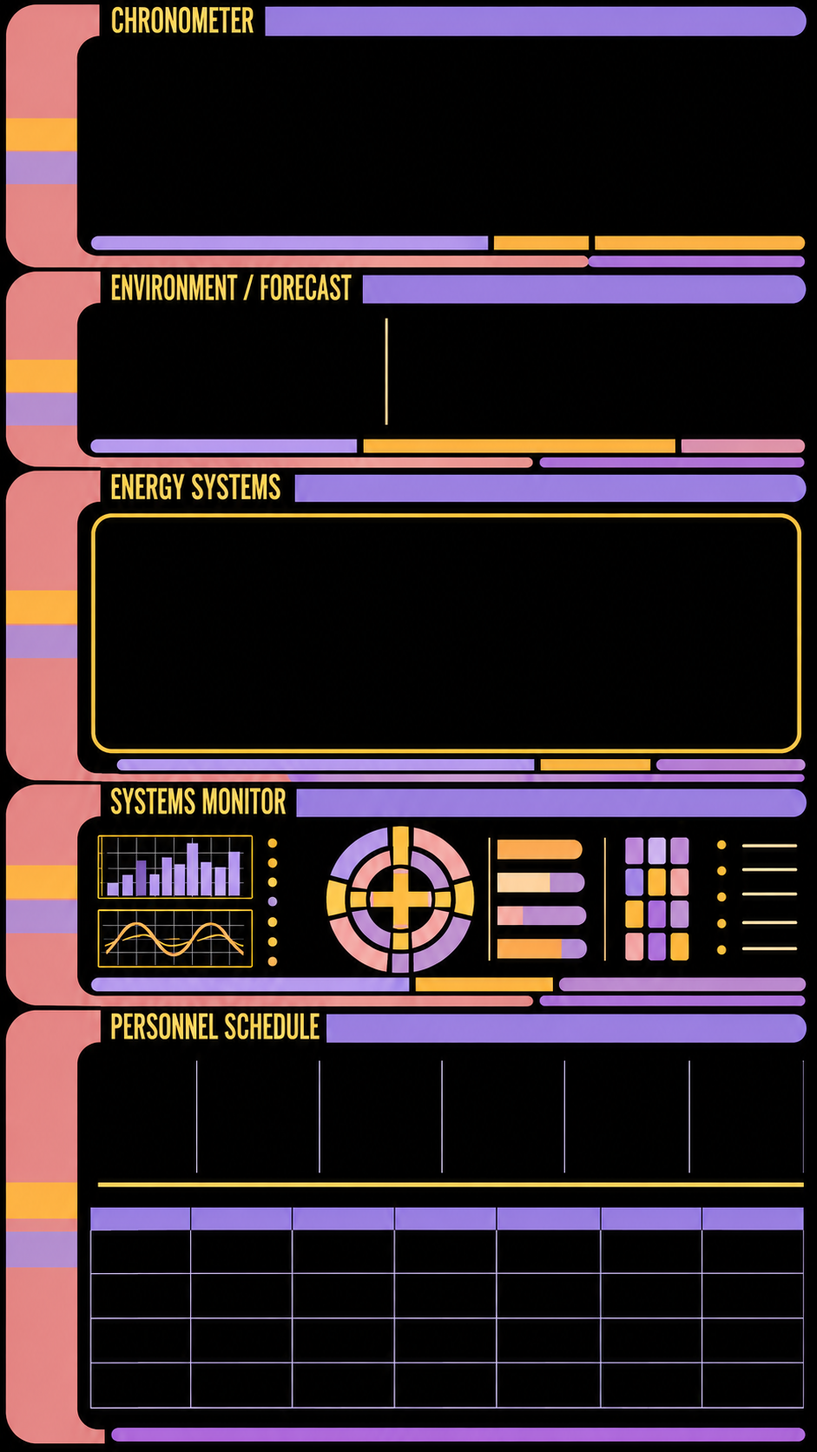
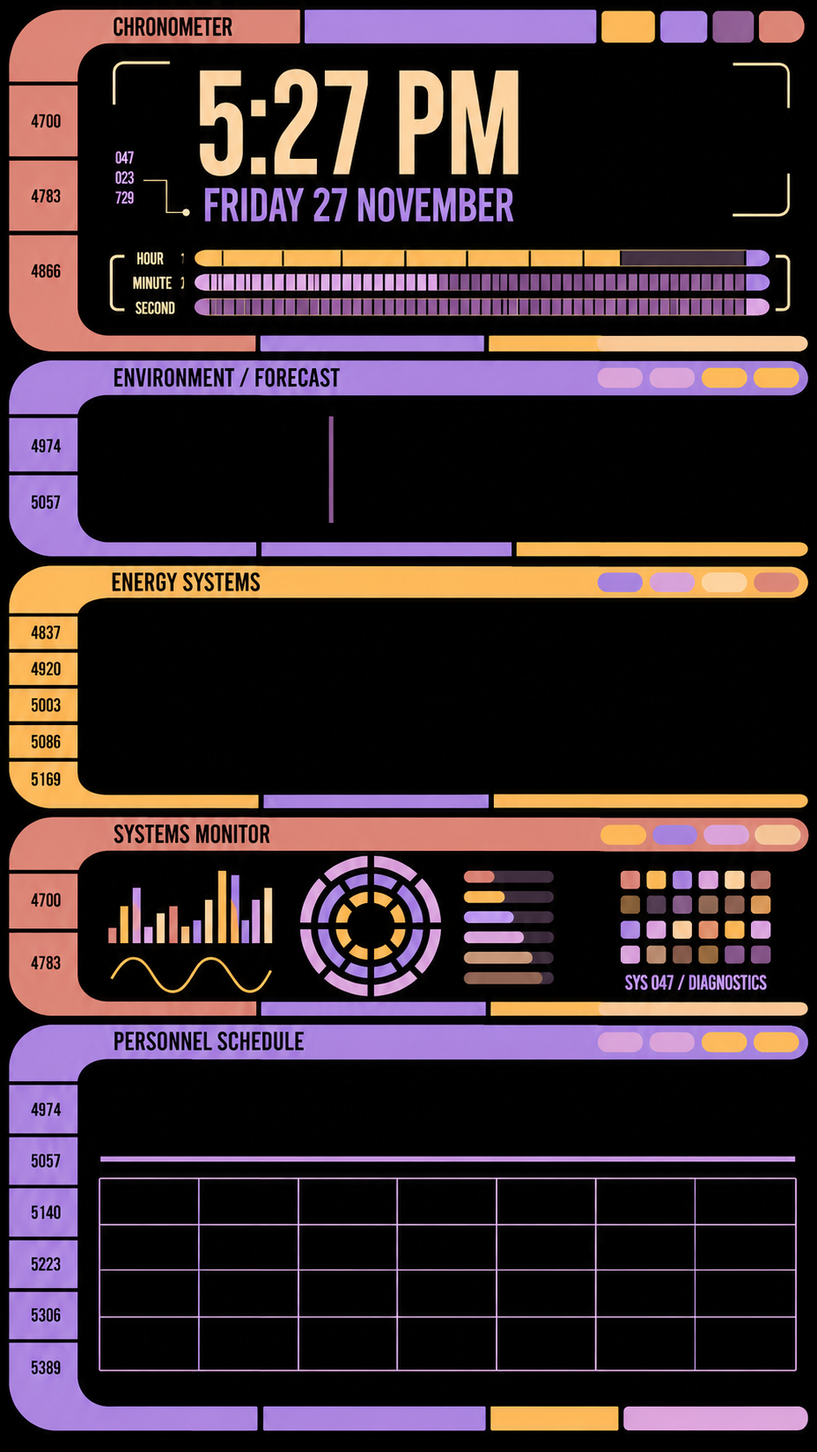
Add files via upload

diff --git a/lcars.html b/lcars.html
@@ -1,1 +1,358 @@
-<!doctype html><html><head><meta charset="utf-8"><meta name="viewport" content="width=device-width, initial-scale=1"><link rel="stylesheet" href="https://fonts.googleapis.com/css2?family=League+Gothic&display=swap"><style>html,body{margin:0;background:#000;width:100%;height:100%;overflow:hidden}svg{width:100%;height:100%;display:block}text{font-family:'League Gothic','Arial Narrow',sans-serif;font-weight:normal} .spin{transform-box:fill-box;transform-origin:center;animation:spin 24s linear infinite}.blink{animation:blink 3s ease-in-out infinite alternate}.bar{transform-box:fill-box;transform-origin:bottom;animation:bar 2.8s ease-in-out infinite alternate}@keyframes spin{to{transform:rotate(360deg)}}@keyframes blink{0%,30%{opacity:.35}70%,100%{opacity:1}}@keyframes bar{from{transform:scaleY(.35)}to{transform:scaleY(1)}}@media(prefers-reduced-motion:reduce){*{animation:none!important}}</style></head><body><svg id="s" viewBox="0 0 1080 1920" preserveAspectRatio="none" xmlns="http://www.w3.org/2000/svg"><rect width="1080" height="1920" fill="black"/><g id="frame"/><g id="monitor"/></svg><script>const ns='http://www.w3.org/2000/svg', f=document.getElementById('frame'),m=document.getElementById('monitor'),colors=['#cc7766','#ffaa55','#9977cc','#cc99cc','#ffcc99'];function el(p,t,a,txt){let n=document.createElementNS(ns,t);for(let k in a)n.setAttribute(k,a[k]);if(txt)n.textContent=txt;p.append(n);return n}function rect(p,x,y,w,h,c,r=0){return el(p,'rect',{x,y,width:w,height:h,fill:c,rx:r})}function text(p,x,y,v,c='#000',size=18){return el(p,'text',{x,y,fill:c,'font-size':size},v)}function section(y,end,label,i){let c=colors[i%colors.length];el(f,'path',{d:`M20 ${y+56} Q20 ${y} 78 ${y} H158 V${y+34} Q120 ${y+34} 120 ${y+72} V${end-45} Q120 ${end-14} 158 ${end-14} H320 V${end} H78 Q20 ${end} 20 ${end-55}Z`,fill:c});let labelW=label.length*13+24;text(f,166,y+27,label,'#ffcc99',29);let start=166+labelW;rect(f,start,y,810-start,34,colors[2],0);for(let j=0;j<4;j++){let r=rect(f,820+j*59,y,49,34,colors[(i+j+1)%5],j===3?15:0);r.setAttribute('class','blink');r.style.animationDelay=`-${j*.7+i}s`}let yy=y+64,j=0;while(yy+38<end-55){let h=Math.min([42,60,36,78,48][j%5],end-55-yy);if(h<20)break;rect(f,20,yy,100,h,colors[(i+j+1)%5]);text(f,108,yy+h-8,String(4700+i*137+j*83),'#000',23).setAttribute('text-anchor','end');yy+=h+5;j++}rect(f,326,end-14,365,14,colors[2]);rect(f,697,end-14,155,14,colors[1]);rect(f,858,end-14,202,14,colors[3],7)}section(12,350,'CHRONOMETER',0);section(358,615,'ENVIRONMENT / FORECAST',2);section(623,1135,'ENERGY SYSTEMS',1);section(1143,1388,'SYSTEMS MONITOR',0);section(1396,1908,'PERSONNEL SCHEDULE',2);rect(f,155,1575,905,5,'#9977cc');for(let i=0;i<15;i++){let h=25+(i*37%95);let b=rect(m,165+i*13,1300-h,9,h,colors[i%5]);b.setAttribute('class','bar');b.style.animationDelay=`-${i*.37}s`}el(m,'path',{d:'M165 1345 Q190 1300 215 1345 T265 1345 T315 1345 T365 1345',stroke:colors[1],'stroke-width':3,fill:'none'});let g=el(m,'g',{});g.setAttribute('class','spin');for(let i=0;i<3;i++)el(g,'circle',{cx:490,cy:1270,r:35+i*22,fill:'none',stroke:colors[i+1],'stroke-width':13,'stroke-dasharray':`${20+i*12} 9`});for(let i=0;i<6;i++){rect(m,605,1205+i*24,100,13,'#302337',5);let b=rect(m,605,1205+i*24,30+i*11,13,colors[i%5],5);b.setAttribute('class','blink');b.style.animationDelay=`-${i*.51}s`;text(m,720,1217+i*24,String(182+i*97),colors[4],14)}for(let i=0;i<24;i++){let b=rect(m,800+i%6*30,1205+Math.floor(i/6)*30,22,20,colors[i%5],4);b.setAttribute('class','blink');b.style.animationDelay=`-${i*.43}s`}text(m,800,1355,'SYS 047 / DIAGNOSTICS',colors[3],22);for(let i=0;i<5;i++){el(m,'path',{d:`M160 ${1210+i*20} H365`,stroke:'#382d3b','stroke-width':1});}for(let i=0;i<6;i++){let n=text(m,378,1218+i*23,String(8214+i*137),colors[i%5],18);n.setAttribute('class','blink');n.style.animationDelay=`-${i*.83}s`}for(let i=0;i<4;i++){let n=rect(m,605+i*44,1360,39,10,colors[i],3);n.setAttribute('class','blink');n.style.animationDelay=`-${i*.4}s`}</script></body></html>
+<!doctype html>
+<html>
+<head>
+  <meta charset="utf-8">
+  <meta name="viewport" content="width=device-width, initial-scale=1">
+  <link rel="preconnect" href="https://fonts.googleapis.com">
+  <link rel="preconnect" href="https://fonts.gstatic.com" crossorigin>
+  <link href="https://fonts.googleapis.com/css2?family=League+Gothic&display=swap" rel="stylesheet">
+  <style>
+    html,body{margin:0;background:#000;width:100%;height:100%;overflow:hidden}
+    svg{width:100%;height:100%;display:block}
+    text{font-family:'League Gothic','Arial Narrow',sans-serif;font-weight:400;letter-spacing:.3px}
+    .softblink{animation:softblink 4.8s ease-in-out infinite alternate}
+    .softblink2{animation:softblink 6.2s ease-in-out infinite alternate}
+    .diagBar{transform-box:fill-box;transform-origin:left center;animation:barpulse 5.5s ease-in-out infinite alternate}
+    .monitorBar{transform-box:fill-box;transform-origin:bottom center;animation:barY 2.8s ease-in-out infinite alternate}
+    .spin{transform-box:fill-box;transform-origin:center center;animation:spin 26s linear infinite}
+    .pulseNode{animation:pulseNode 3s ease-in-out infinite}
+    .scanSweep{animation:sweep 7s ease-in-out infinite}
+    .tilePulse{animation:tilePulse 5s ease-in-out infinite}
+    .sidePulse{animation:sidePulse 7s ease-in-out infinite}
+    @keyframes softblink{0%,35%{opacity:.45}100%{opacity:1}}
+    @keyframes barpulse{0%{opacity:.45}100%{opacity:1}}
+    @keyframes barY{0%{transform:scaleY(.35)}100%{transform:scaleY(1)}}
+    @keyframes spin{to{transform:rotate(360deg)}}
+    @keyframes pulseNode{0%,100%{opacity:.6;r:6}50%{opacity:1;r:8}}
+    @keyframes sweep{0%,20%{opacity:0;transform:translateX(-18px)}25%,75%{opacity:.75}100%{opacity:0;transform:translateX(18px)}}
+    @keyframes tilePulse{0%,100%{opacity:.75}50%{opacity:1}}
+    @keyframes sidePulse{0%,85%,100%{filter:none;opacity:1}90%{filter:brightness(1.25);opacity:1}}
+    @media (prefers-reduced-motion: reduce){*{animation:none!important}}
+  </style>
+</head>
+<body>
+<svg viewBox="0 0 1080 1920" xmlns="http://www.w3.org/2000/svg" preserveAspectRatio="none">
+  <defs>
+    <clipPath id="chronoClip"><rect x="120" y="45" width="940" height="305" rx="42"/></clipPath>
+    <clipPath id="globeClip"><circle cx="894" cy="160" r="66"/></clipPath>
+  </defs>
+  <rect width="1080" height="1920" fill="#000"/>
+
+  <!-- outer section shells -->
+  <g id="frame">
+    <!-- Section helper path reused manually -->
+    <path d="M20 68 Q20 12 78 12 H158 V46 Q120 46 120 84 V305 Q120 336 158 336 H320 V350 H78 Q20 350 20 293 Z" fill="#c98776"/>
+    <path d="M20 414 Q20 358 78 358 H158 V392 Q120 392 120 430 V571 Q120 602 158 602 H320 V615 H78 Q20 615 20 558 Z" fill="#a184d6"/>
+    <path d="M20 679 Q20 623 78 623 H158 V657 Q120 657 120 695 V1091 Q120 1122 158 1122 H320 V1135 H78 Q20 1135 20 1078 Z" fill="#efb25a"/>
+    <path d="M20 1199 Q20 1143 78 1143 H158 V1177 Q120 1177 120 1215 V1344 Q120 1375 158 1375 H320 V1388 H78 Q20 1388 20 1331 Z" fill="#d18b79"/>
+    <path d="M20 1452 Q20 1396 78 1396 H158 V1430 Q120 1430 120 1468 V1864 Q120 1895 158 1895 H320 V1908 H78 Q20 1908 20 1851 Z" fill="#ab8ce2"/>
+
+    <!-- headers -->
+    <text x="166" y="29" fill="#000" font-size="33">CHRONOMETER</text>
+    <text x="166" y="392" fill="#000" font-size="33">ENVIRONMENT / FORECAST</text>
+    <text x="166" y="657" fill="#000" font-size="33">ENERGY SYSTEMS</text>
+    <text x="166" y="1177" fill="#000" font-size="33">SYSTEMS MONITOR</text>
+    <text x="166" y="1430" fill="#000" font-size="33">PERSONNEL SCHEDULE</text>
+
+    <!-- top header bars -->
+    <rect x="408" y="12" width="390" height="34" fill="#a184d6"/>
+    <rect x="808" y="12" width="66" height="34" fill="#efb25a" rx="8" class="softblink"/>
+    <rect x="882" y="12" width="58" height="34" fill="#ab8ce2" rx="8" class="softblink2"/>
+    <rect x="948" y="12" width="58" height="34" fill="#bb8fbd" rx="8" class="softblink" style="animation-delay:-1.2s"/>
+    <rect x="1014" y="12" width="52" height="34" fill="#dba588" rx="16" class="softblink2" style="animation-delay:-2.4s"/>
+
+    <rect x="455" y="358" width="440" height="34" fill="#a184d6"/>
+    <rect x="895" y="358" width="58" height="34" fill="#c89fca" rx="8" class="softblink"/>
+    <rect x="961" y="358" width="58" height="34" fill="#d2a5cf" rx="8" class="softblink2"/>
+    <rect x="1027" y="358" width="46" height="34" fill="#eeae44" rx="8" class="softblink" style="animation-delay:-1s"/>
+
+    <rect x="476" y="623" width="390" height="34" fill="#a184d6"/>
+    <rect x="874" y="623" width="58" height="34" fill="#ab8ce2" rx="8" class="softblink"/>
+    <rect x="940" y="623" width="58" height="34" fill="#caa7d0" rx="8" class="softblink2"/>
+    <rect x="1006" y="623" width="58" height="34" fill="#ffd7ac" rx="8" class="softblink" style="animation-delay:-1.2s"/>
+
+    <rect x="812" y="1143" width="58" height="34" fill="#efb25a" rx="8" class="softblink"/>
+    <rect x="878" y="1143" width="58" height="34" fill="#ab8ce2" rx="8" class="softblink2"/>
+    <rect x="944" y="1143" width="58" height="34" fill="#d2a5cf" rx="8" class="softblink" style="animation-delay:-1s"/>
+    <rect x="1010" y="1143" width="58" height="34" fill="#dba588" rx="16" class="softblink2" style="animation-delay:-2s"/>
+
+    <rect x="820" y="1396" width="58" height="34" fill="#d2a5cf" rx="8" class="softblink"/>
+    <rect x="886" y="1396" width="58" height="34" fill="#c8a1ce" rx="8" class="softblink2"/>
+    <rect x="952" y="1396" width="58" height="34" fill="#efb25a" rx="8" class="softblink" style="animation-delay:-1.3s"/>
+    <rect x="1018" y="1396" width="50" height="34" fill="#efb25a" rx="16" class="softblink2" style="animation-delay:-.7s"/>
+
+    <!-- left sidebar blocks with mixed colours -->
+    <g font-size="23" fill="#000" text-anchor="end">
+      <rect x="20" y="95" width="100" height="58" fill="#efb25a" class="sidePulse"/><text x="108" y="138">4700</text>
+      <rect x="20" y="158" width="100" height="76" fill="#ab8ce2" class="sidePulse" style="animation-delay:-1.3s"/><text x="108" y="215">4783</text>
+      <rect x="20" y="239" width="100" height="52" fill="#d19ba8" class="sidePulse" style="animation-delay:-2.2s"/><text x="108" y="275">4866</text>
+      <rect x="20" y="296" width="100" height="40" fill="#ffcc99" class="sidePulse" style="animation-delay:-3s"/><text x="108" y="324">4949</text>
+
+      <rect x="20" y="446" width="100" height="81" fill="#b093de" class="sidePulse"/><text x="108" y="507">4974</text>
+      <rect x="20" y="532" width="100" height="70" fill="#c49bcf" class="sidePulse" style="animation-delay:-1.5s"/><text x="108" y="577">5057</text>
+
+      <rect x="20" y="687" width="100" height="72" fill="#baa0e5" class="sidePulse"/><text x="108" y="737">4837</text>
+      <rect x="20" y="764" width="100" height="72" fill="#ffcc99" class="sidePulse" style="animation-delay:-1.1s"/><text x="108" y="814">4920</text>
+      <rect x="20" y="841" width="100" height="72" fill="#d69386" class="sidePulse" style="animation-delay:-2.1s"/><text x="108" y="891">5003</text>
+      <rect x="20" y="918" width="100" height="72" fill="#efb25a" class="sidePulse" style="animation-delay:-3.3s"/><text x="108" y="968">5086</text>
+      <rect x="20" y="995" width="100" height="72" fill="#aa8ad9" class="sidePulse" style="animation-delay:-.8s"/><text x="108" y="1045">5169</text>
+      <rect x="20" y="1072" width="100" height="50" fill="#efb25a" class="sidePulse" style="animation-delay:-2.8s"/><text x="108" y="1108">5252</text>
+
+      <rect x="20" y="1207" width="100" height="79" fill="#efb25a" class="sidePulse"/><text x="108" y="1261">4700</text>
+      <rect x="20" y="1291" width="100" height="84" fill="#ab8ce2" class="sidePulse" style="animation-delay:-1.4s"/><text x="108" y="1349">4783</text>
+
+      <rect x="20" y="1460" width="100" height="80" fill="#b194e0" class="sidePulse"/><text x="108" y="1515">4974</text>
+      <rect x="20" y="1545" width="100" height="84" fill="#c69fd2" class="sidePulse" style="animation-delay:-1.3s"/><text x="108" y="1604">5057</text>
+      <rect x="20" y="1634" width="100" height="84" fill="#e4af63" class="sidePulse" style="animation-delay:-2.1s"/><text x="108" y="1691">5140</text>
+      <rect x="20" y="1723" width="100" height="84" fill="#ae8ddd" class="sidePulse" style="animation-delay:-3s"/><text x="108" y="1781">5223</text>
+      <rect x="20" y="1812" width="100" height="50" fill="#cf8e83" class="sidePulse" style="animation-delay:-.9s"/><text x="108" y="1848">5306</text>
+      <rect x="20" y="1867" width="100" height="28" fill="#efb25a" class="sidePulse" style="animation-delay:-1.7s"/><text x="108" y="1888">5389</text>
+    </g>
+
+    <!-- bottom accent bars -->
+    <rect x="330" y="336" width="365" height="14" fill="#a184d6"/>
+    <rect x="695" y="336" width="130" height="14" fill="#efb25a"/>
+    <rect x="825" y="336" width="235" height="14" fill="#d8a28a" rx="7"/>
+    <rect x="330" y="601" width="325" height="14" fill="#a184d6"/>
+    <rect x="655" y="601" width="405" height="14" fill="#efb25a" rx="7"/>
+    <rect x="330" y="1122" width="325" height="14" fill="#a184d6"/>
+    <rect x="655" y="1122" width="405" height="14" fill="#efb25a" rx="7"/>
+    <rect x="330" y="1375" width="325" height="14" fill="#a184d6"/>
+    <rect x="655" y="1375" width="405" height="14" fill="#efb25a" rx="7"/>
+    <rect x="330" y="1894" width="325" height="14" fill="#a184d6"/>
+    <rect x="655" y="1894" width="180" height="14" fill="#efb25a"/>
+    <rect x="842" y="1894" width="218" height="14" fill="#d2a5cf" rx="7"/>
+  </g>
+
+  <!-- chronometer details -->
+  <g id="chrono">
+    <!-- brackets and small annotation -->
+    <path d="M145 110 V70 H225" stroke="#ffecbf" stroke-width="5" fill="none" stroke-linecap="round" stroke-linejoin="round"/>
+    <path d="M1004 110 V70 H970" stroke="#ffecbf" stroke-width="5" fill="none" stroke-linecap="round" stroke-linejoin="round"/>
+    <path d="M1004 255 V292 H970" stroke="#ffecbf" stroke-width="5" fill="none" stroke-linecap="round" stroke-linejoin="round"/>
+
+    <text x="175" y="180" fill="#cca2fb" font-size="24">047</text>
+    <text x="175" y="209" fill="#cca2fb" font-size="24">023</text>
+    <text x="175" y="238" fill="#cca2fb" font-size="24">729</text>
+    <path d="M212 210 H250 V242 H281" stroke="#ffecbf" stroke-width="3" fill="none" stroke-linecap="round" stroke-linejoin="round"/>
+    <circle cx="282" cy="242" r="4" fill="#ffecbf"/>
+
+    <text id="timeText" x="290" y="198" fill="#ffcc99" font-size="146">5:27</text>
+    <text id="ampmText" x="610" y="198" fill="#ffcc99" font-size="76">PM</text>
+    <text id="dateText" x="291" y="273" fill="#b987ff" font-size="77">Friday 27 November</text>
+
+    <!-- mini globe -->
+    <g id="globeGroup" transform="translate(0,0)">
+      <circle cx="894" cy="160" r="66" fill="none" stroke="#ffcc99" stroke-width="4"/>
+      <g clip-path="url(#globeClip)">
+        <ellipse cx="894" cy="160" rx="58" ry="60" fill="#120812" stroke="#57395a" stroke-width="1.5"/>
+        <!-- simplified continents -->
+        <path d="M870 116 l10 -8 22 4 8 13 17 5 4 18 -9 18 -16 8 -3 12 -19 2 -16 -8 -10 -16 3 -19 -8 -9 4 -13 13 -7z" fill="#8c65a7" opacity="0.95"/>
+        <path d="M914 196 l18 -1 13 9 0 18 -10 13 -3 17 -7 14 -16 3 -9 -8 4 -14 0 -17 -8 -15 6 -12z" fill="#8c65a7" opacity="0.95"/>
+        <path d="M840 168 l17 -5 11 7 -1 10 -15 10 -15 -2 -4 -12z" fill="#8c65a7" opacity="0.95"/>
+        <path d="M829 147 l10 -3 9 2 -2 8 -10 4 -8 -4z" fill="#8c65a7" opacity="0.95"/>
+        <!-- grid -->
+        <ellipse cx="894" cy="160" rx="20" ry="60" fill="none" stroke="#ffcc99" stroke-width="1" opacity="0.7"/>
+        <ellipse cx="894" cy="160" rx="40" ry="60" fill="none" stroke="#ffcc99" stroke-width="1" opacity="0.7"/>
+        <ellipse cx="894" cy="160" rx="58" ry="60" fill="none" stroke="#ffcc99" stroke-width="1" opacity="0.7"/>
+        <ellipse cx="894" cy="132" rx="58" ry="15" fill="none" stroke="#ffcc99" stroke-width="1" opacity="0.7"/>
+        <ellipse cx="894" cy="160" rx="58" ry="22" fill="none" stroke="#ffcc99" stroke-width="1" opacity="0.7"/>
+        <ellipse cx="894" cy="188" rx="58" ry="15" fill="none" stroke="#ffcc99" stroke-width="1" opacity="0.7"/>
+        <rect x="826" y="154" width="136" height="10" fill="#d8a4ff" opacity="0.4" class="scanSweep"/>
+      </g>
+      <!-- callouts -->
+      <path d="M850 134 H796" stroke="#ffcc99" stroke-width="3" fill="none" stroke-linecap="round"/>
+      <circle cx="850" cy="134" r="6" fill="#efb25a" class="pulseNode"/>
+      <text x="732" y="121" fill="#ffcc99" font-size="15">SECTOR 001</text>
+      <text x="732" y="142" fill="#ffcc99" font-size="26">LOS ANGELES</text>
+
+      <path d="M836 185 H780" stroke="#ffcc99" stroke-width="3" fill="none" stroke-linecap="round"/>
+      <circle cx="836" cy="185" r="5" fill="#efb25a" class="pulseNode" style="animation-delay:-1s"/>
+      <text x="732" y="192" fill="#ffcc99" font-size="24">HAWAII</text>
+
+      <path d="M953 141 H1012" stroke="#ffcc99" stroke-width="3" fill="none" stroke-linecap="round"/>
+      <circle cx="953" cy="141" r="5" fill="#efb25a" class="pulseNode" style="animation-delay:-2s"/>
+      <text x="1020" y="148" fill="#ffcc99" font-size="24">LONDON</text>
+    </g>
+
+    <!-- progress labels -->
+    <path d="M146 292 V333 H175" stroke="#ffecbf" stroke-width="4" fill="none" stroke-linecap="round" stroke-linejoin="round"/>
+    <text x="181" y="297" fill="#ffecbf" font-size="22">HOUR</text>
+    <text x="181" y="330" fill="#ffecbf" font-size="22">MINUTE</text>
+    <text x="181" y="363" fill="#ffecbf" font-size="22">SECOND</text>
+
+    <!-- bars -->
+    <g id="barGroup" transform="translate(0,0)">
+      <rect x="300" y="282" width="710" height="24" rx="12" fill="#5e4765"/>
+      <rect x="300" y="314" width="710" height="24" rx="12" fill="#5e4765"/>
+      <rect x="300" y="346" width="710" height="24" rx="12" fill="#5e4765"/>
+      <g id="hourBar"></g>
+      <g id="minuteBar"></g>
+      <g id="secondBar"></g>
+    </g>
+  </g>
+
+  <!-- systems monitor decoration -->
+  <g id="monitorDecor">
+    <!-- chart left -->
+    <g transform="translate(155,1175)">
+      <line x1="0" y1="125" x2="185" y2="125" stroke="#3f303f" stroke-width="1"/>
+      <line x1="0" y1="93" x2="185" y2="93" stroke="#3f303f" stroke-width="1"/>
+      <line x1="0" y1="61" x2="185" y2="61" stroke="#3f303f" stroke-width="1"/>
+      <line x1="0" y1="29" x2="185" y2="29" stroke="#3f303f" stroke-width="1"/>
+      <line x1="31" y1="0" x2="31" y2="126" stroke="#3f303f" stroke-width="1"/>
+      <line x1="62" y1="0" x2="62" y2="126" stroke="#3f303f" stroke-width="1"/>
+      <line x1="93" y1="0" x2="93" y2="126" stroke="#3f303f" stroke-width="1"/>
+      <line x1="124" y1="0" x2="124" y2="126" stroke="#3f303f" stroke-width="1"/>
+      <line x1="155" y1="0" x2="155" y2="126" stroke="#3f303f" stroke-width="1"/>
+      <g fill="#efb25a">
+        <rect class="monitorBar" x="6" y="98" width="9" height="27" fill="#efb25a"/>
+        <rect class="monitorBar" x="22" y="81" width="9" height="44" fill="#ab8ce2" style="animation-delay:-0.4s"/>
+        <rect class="monitorBar" x="38" y="56" width="9" height="69" fill="#d08d7f" style="animation-delay:-1s"/>
+        <rect class="monitorBar" x="54" y="89" width="9" height="36" fill="#c69fd2" style="animation-delay:-1.4s"/>
+        <rect class="monitorBar" x="70" y="65" width="9" height="60" fill="#efb25a" style="animation-delay:-0.8s"/>
+        <rect class="monitorBar" x="86" y="79" width="9" height="46" fill="#ab8ce2" style="animation-delay:-1.9s"/>
+        <rect class="monitorBar" x="102" y="45" width="9" height="80" fill="#efb25a" style="animation-delay:-0.6s"/>
+        <rect class="monitorBar" x="118" y="24" width="9" height="101" fill="#d08d7f" style="animation-delay:-1.3s"/>
+        <rect class="monitorBar" x="134" y="56" width="9" height="69" fill="#ab8ce2" style="animation-delay:-2.1s"/>
+        <rect class="monitorBar" x="150" y="35" width="9" height="90" fill="#ffcc99" style="animation-delay:-0.2s"/>
+      </g>
+      <path d="M10 147 Q32 119 54 147 T98 147 T142 147 T186 147" stroke="#efb25a" stroke-width="4" fill="none"/>
+    </g>
+
+    <!-- spinning target -->
+    <g class="spin">
+      <circle cx="490" cy="1268" r="74" fill="none" stroke="#ae8ddd" stroke-width="14" stroke-dasharray="48 12"/>
+      <circle cx="490" cy="1268" r="48" fill="none" stroke="#efb25a" stroke-width="13" stroke-dasharray="29 10"/>
+    </g>
+    <circle cx="490" cy="1268" r="18" fill="#000" stroke="#efb25a" stroke-width="10"/>
+
+    <!-- stat bars and matrix -->
+    <g>
+      <rect x="605" y="1207" width="124" height="13" rx="6" fill="#2c2230"/><rect class="diagBar" x="605" y="1207" width="42" height="13" rx="6" fill="#d99587"/>
+      <rect x="605" y="1234" width="124" height="13" rx="6" fill="#2c2230"/><rect class="diagBar" x="605" y="1234" width="55" height="13" rx="6" fill="#efb25a" style="animation-delay:-1s"/>
+      <rect x="605" y="1261" width="124" height="13" rx="6" fill="#2c2230"/><rect class="diagBar" x="605" y="1261" width="85" height="13" rx="6" fill="#c89fca" style="animation-delay:-2s"/>
+      <rect x="605" y="1288" width="124" height="13" rx="6" fill="#2c2230"/><rect class="diagBar" x="605" y="1288" width="66" height="13" rx="6" fill="#af8cdd" style="animation-delay:-3s"/>
+      <rect x="605" y="1315" width="124" height="13" rx="6" fill="#2c2230"/><rect class="diagBar" x="605" y="1315" width="92" height="13" rx="6" fill="#d6a390" style="animation-delay:-1.7s"/>
+      <text x="750" y="1218" fill="#ffcc99" font-size="18">182</text>
+      <text x="750" y="1245" fill="#ffcc99" font-size="18">279</text>
+      <text x="750" y="1272" fill="#ffcc99" font-size="18">376</text>
+      <text x="750" y="1299" fill="#ffcc99" font-size="18">473</text>
+      <text x="750" y="1326" fill="#ffcc99" font-size="18">570</text>
+
+      <g transform="translate(820,1199)">
+        <g>
+          <rect class="tilePulse" x="0" y="0" width="26" height="22" rx="4" fill="#d08d7f"/>
+          <rect class="tilePulse" x="38" y="0" width="26" height="22" rx="4" fill="#efb25a" style="animation-delay:-.4s"/>
+          <rect class="tilePulse" x="76" y="0" width="26" height="22" rx="4" fill="#ab8ce2" style="animation-delay:-.8s"/>
+          <rect class="tilePulse" x="114" y="0" width="26" height="22" rx="4" fill="#bb8fbd" style="animation-delay:-1.2s"/>
+          <rect class="tilePulse" x="152" y="0" width="26" height="22" rx="4" fill="#7b6548" style="animation-delay:-1.6s"/>
+          <rect class="tilePulse" x="190" y="0" width="26" height="22" rx="4" fill="#6d4c45" style="animation-delay:-2s"/>
+
+          <rect class="tilePulse" x="0" y="32" width="26" height="22" rx="4" fill="#765b3a" style="animation-delay:-1.1s"/>
+          <rect class="tilePulse" x="38" y="32" width="26" height="22" rx="4" fill="#5d4b3c" style="animation-delay:-.7s"/>
+          <rect class="tilePulse" x="76" y="32" width="26" height="22" rx="4" fill="#d2a5cf" style="animation-delay:-.3s"/>
+          <rect class="tilePulse" x="114" y="32" width="26" height="22" rx="4" fill="#ffcc99" style="animation-delay:-2.1s"/>
+          <rect class="tilePulse" x="152" y="32" width="26" height="22" rx="4" fill="#d6a390" style="animation-delay:-1.5s"/>
+          <rect class="tilePulse" x="190" y="32" width="26" height="22" rx="4" fill="#efb25a" style="animation-delay:-.9s"/>
+
+          <rect class="tilePulse" x="0" y="64" width="26" height="22" rx="4" fill="#ab8ce2" style="animation-delay:-.5s"/>
+          <rect class="tilePulse" x="38" y="64" width="26" height="22" rx="4" fill="#d2a5cf" style="animation-delay:-1.8s"/>
+          <rect class="tilePulse" x="76" y="64" width="26" height="22" rx="4" fill="#ffcc99" style="animation-delay:-.2s"/>
+          <rect class="tilePulse" x="114" y="64" width="26" height="22" rx="4" fill="#7e674c" style="animation-delay:-2.3s"/>
+          <rect class="tilePulse" x="152" y="64" width="26" height="22" rx="4" fill="#efb25a" style="animation-delay:-1.2s"/>
+          <rect class="tilePulse" x="190" y="64" width="26" height="22" rx="4" fill="#7a587d" style="animation-delay:-.6s"/>
+
+          <rect class="tilePulse" x="0" y="96" width="26" height="22" rx="4" fill="#94808d" style="animation-delay:-1.7s"/>
+          <rect class="tilePulse" x="38" y="96" width="26" height="22" rx="4" fill="#5f4e3f" style="animation-delay:-1.1s"/>
+          <rect class="tilePulse" x="76" y="96" width="26" height="22" rx="4" fill="#d08d7f" style="animation-delay:-.4s"/>
+          <rect class="tilePulse" x="114" y="96" width="26" height="22" rx="4" fill="#6a5038" style="animation-delay:-2s"/>
+          <rect class="tilePulse" x="152" y="96" width="26" height="22" rx="4" fill="#60455f" style="animation-delay:-1.4s"/>
+          <rect class="tilePulse" x="190" y="96" width="26" height="22" rx="4" fill="#ab8ce2" style="animation-delay:-.8s"/>
+        </g>
+      </g>
+      <text x="820" y="1355" fill="#b987ff" font-size="24">SYS 047 / DIAGNOSTICS</text>
+    </g>
+  </g>
+
+  <!-- schedule template lines -->
+  <g id="scheduleTemplate" stroke="#b987ff" stroke-width="3" fill="none">
+    <line x1="145" y1="1590" x2="1042" y2="1590"/>
+    <rect x="135" y="1618" width="910" height="280" stroke="#b987ff" stroke-width="2"/>
+    <line x1="270" y1="1618" x2="270" y2="1898" stroke-width="2"/>
+    <line x1="405" y1="1618" x2="405" y2="1898" stroke-width="2"/>
+    <line x1="540" y1="1618" x2="540" y2="1898" stroke-width="2"/>
+    <line x1="675" y1="1618" x2="675" y2="1898" stroke-width="2"/>
+    <line x1="810" y1="1618" x2="810" y2="1898" stroke-width="2"/>
+    <line x1="945" y1="1618" x2="945" y2="1898" stroke-width="2"/>
+    <line x1="135" y1="1688" x2="1045" y2="1688" stroke-width="2"/>
+    <line x1="135" y1="1758" x2="1045" y2="1758" stroke-width="2"/>
+    <line x1="135" y1="1828" x2="1045" y2="1828" stroke-width="2"/>
+  </g>
+</svg>
+<script>
+(function(){
+  const timeText=document.getElementById('timeText');
+  const ampmText=document.getElementById('ampmText');
+  const dateText=document.getElementById('dateText');
+  const hourBar=document.getElementById('hourBar');
+  const minuteBar=document.getElementById('minuteBar');
+  const secondBar=document.getElementById('secondBar');
+
+  function makeRect(x,y,w,h,fill,rx=0){
+    const r=document.createElementNS('http://www.w3.org/2000/svg','rect');
+    r.setAttribute('x',x); r.setAttribute('y',y); r.setAttribute('width',w); r.setAttribute('height',h);
+    r.setAttribute('fill',fill); if(rx) r.setAttribute('rx',rx); return r;
+  }
+
+  function buildBars(now){
+    hourBar.innerHTML=''; minuteBar.innerHTML=''; secondBar.innerHTML='';
+    const hourProgress=(now.getHours()+now.getMinutes()/60)/24;
+    const minute=now.getMinutes();
+    const second=now.getSeconds();
+    // hour bar 12 chunky segments
+    const startX=300, y1=282, w=710, h=24;
+    const segW=(w-11*3)/12;
+    for(let i=0;i<12;i++){
+      const x=startX+i*(segW+3);
+      const fillFrac=Math.max(0, Math.min(1, hourProgress*12 - i));
+      const bg=makeRect(x,y1,segW,h,'#3d2f42',8); hourBar.appendChild(bg);
+      if(fillFrac>0){
+        const fg=makeRect(x,y1,Math.max(0,segW*fillFrac),h,i<9?'#efb25a':'#6a586f',8);
+        fg.setAttribute('class','diagBar'); fg.style.animationDelay=`-${i*.25}s`; hourBar.appendChild(fg);
+      }
+    }
+    // minute and second bars 60 cells each
+    function cellBar(group, y, count, activeCount, color){
+      const gap=2, cellW=(w-59*gap)/60;
+      for(let i=0;i<60;i++){
+        const x=startX+i*(cellW+gap);
+        const bg=makeRect(x,y,cellW,h,'#2d2332',4); group.appendChild(bg);
+        if(i<activeCount){
+          const fg=makeRect(x,y,cellW,h,color,4);
+          fg.setAttribute('class','diagBar'); fg.style.animationDelay=`-${i*.05}s`; group.appendChild(fg);
+        }
+      }
+    }
+    cellBar(minuteBar,314,60,minute,'#c8a1f2');
+    cellBar(secondBar,346,60,second,'#a57ecc');
+  }
+
+  function updateClock(){
+    const now=new Date();
+    let h=now.getHours(); const m=String(now.getMinutes()).padStart(2,'0');
+    const ampm=h>=12?'PM':'AM';
+    h=h%12; if(h===0) h=12;
+    timeText.textContent=`${h}:${m}`;
+    const digits=String(h).length + 1 + 2; // rough offset
+    ampmText.setAttribute('x', h<10? 595 : 640);
+    ampmText.textContent=ampm;
+    const date=new Intl.DateTimeFormat('en-GB',{weekday:'long',day:'numeric',month:'long'}).format(now);
+    dateText.textContent=date.replace(/^(.)/,c=>c.toUpperCase());
+    buildBars(now);
+  }
+  updateClock(); setInterval(updateClock,1000);
+})();
+</script>
+</body>
+</html>
